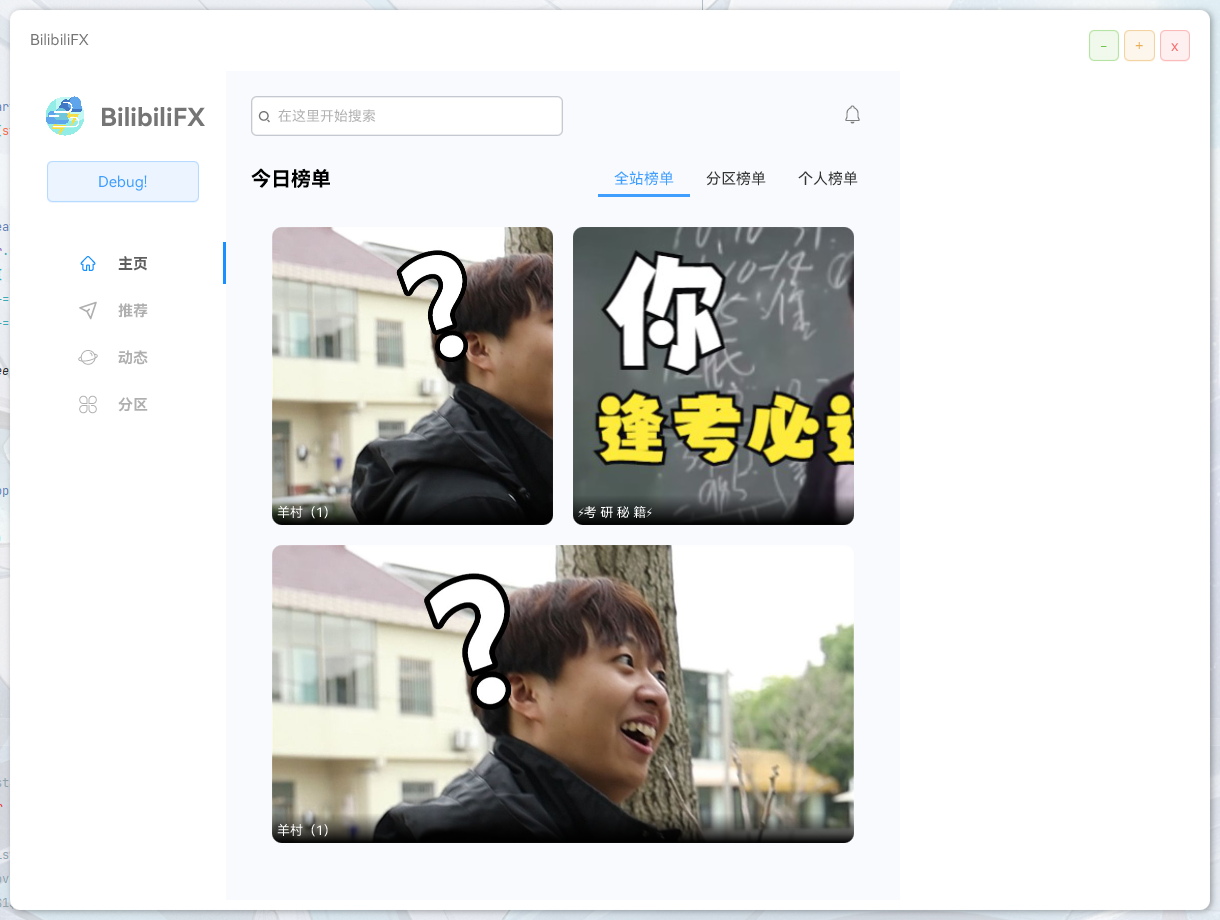
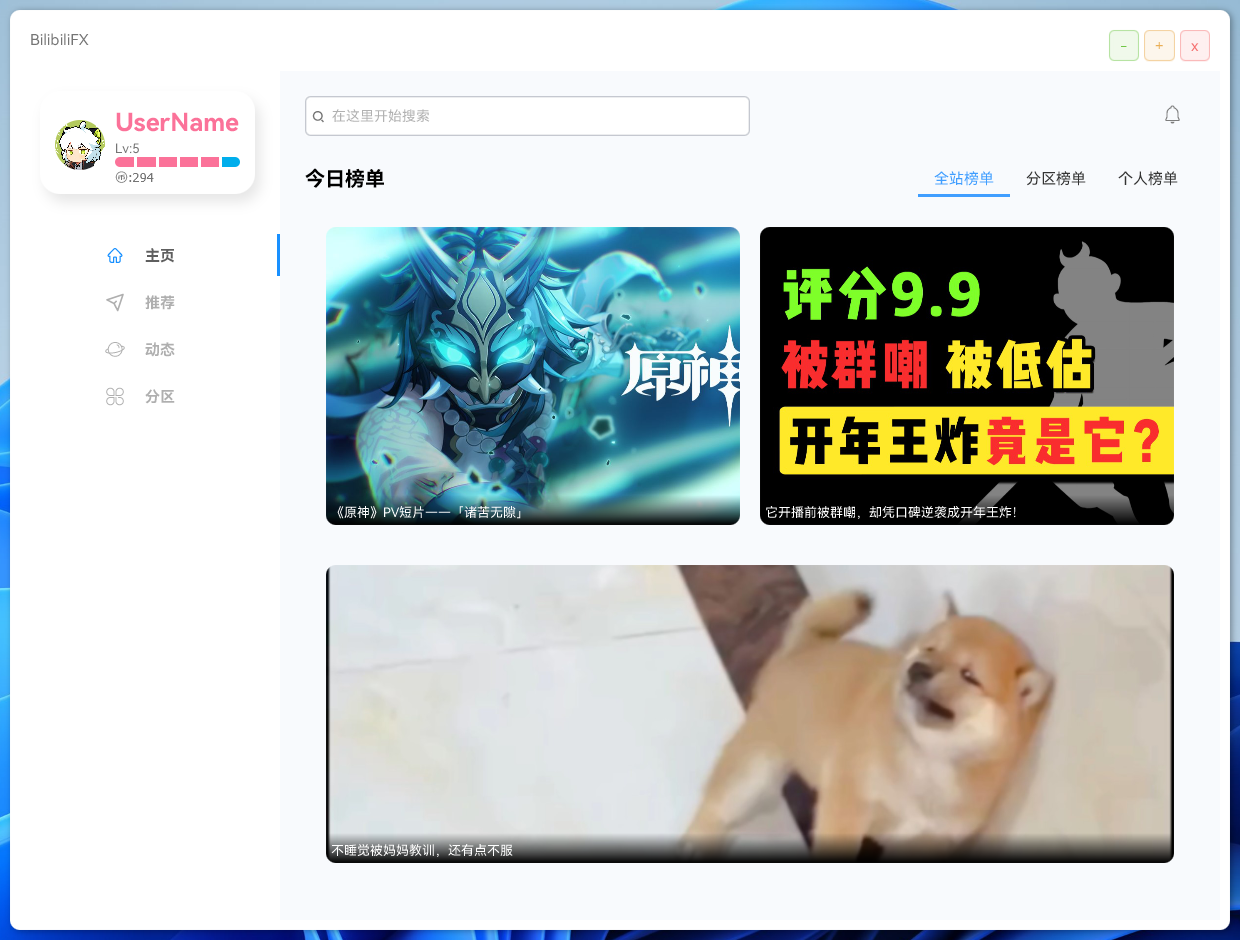
Add new Function

diff --git a/src/main/kotlin/ink/bluecloud/ui/mainview/node/SuspensionProFileCard.kt b/src/main/kotlin/ink/bluecloud/ui/mainview/node/SuspensionProFileCard.kt
@@ -1,15 +1,18 @@
 package ink.bluecloud.ui.mainview.node
 
 import ink.bluecloud.cloudtools.CLOUD_INTERPOLATOR
+import ink.bluecloud.model.data.account.AccountCard
 import ink.bluecloud.utils.newUI
 import ink.bluecloud.utils.uiutil.cloudTimeline
 import ink.bluecloud.utils.uiutil.nodeToScene
 import javafx.beans.property.SimpleBooleanProperty
+import javafx.beans.property.SimpleObjectProperty
 import javafx.geometry.Pos
 import javafx.scene.effect.BlurType
 import javafx.scene.effect.DropShadow
 import javafx.scene.layout.Pane
 import javafx.scene.layout.StackPane
+import javafx.scene.layout.VBox
 import javafx.scene.paint.Color
 import javafx.scene.transform.Scale
 import javafx.util.Duration
@@ -22,42 +25,76 @@ import tornadofx.*
 class SuspensionProFileCard(
     open: SimpleBooleanProperty,
     box: Pane
-): StackPane(), KoinComponent {
+): VBox(), KoinComponent {
+    val accountInfo = SimpleObjectProperty<AccountCard>()
+
     init {
-        val rootChildren = (box.scene.root as Pane).children
+        val uidLabel = label()
+
+        accountInfo.addListener { _, _, newValue ->
+            uidLabel.run {
+                style {
+                    textFill = c("gray")
+                    fontSize = 10.px
+                }
+                text = ">=====${newValue.mid}=====<"
+            }
+
+        }
 
         setOnMouseExited {
             open.value = false
         }
 
-        val scale = Scale(1.0,0.5)
+        style {
+            backgroundColor += Color.WHITE
+            backgroundRadius += box(20.px)
+        }
+
+        initPosition(box)
+
+        alignment = Pos.TOP_CENTER
+
+        maxWidth = 200.0
+        maxHeight = 300.0
+        opacity = 0.0
+        transforms += playAnimation(box, open)
+        effect = DropShadow(BlurType.GAUSSIAN, c(0,0,0,0.2), 20.0,0.0,7.0,10.0)
+    }
+
+    private fun playAnimation(
+        box: Pane,
+        open: SimpleBooleanProperty,
+    ): Scale {
+        val scale = Scale(1.0, 0.5)
+        val rootChildren = (box.scene.root as Pane).children
 
         val inAnimation = cloudTimeline {
             keyframe(Duration.millis(150.0)) {
-                keyvalue((box.effect as DropShadow).colorProperty(),c(0,0,0,0.25), CLOUD_INTERPOLATOR)
-                keyvalue(box.translateXProperty(),-5, CLOUD_INTERPOLATOR)
-                keyvalue(box.translateYProperty(),-2, CLOUD_INTERPOLATOR)
+                keyvalue((box.effect as DropShadow).colorProperty(), c(0, 0, 0, 0.25), CLOUD_INTERPOLATOR)
+                keyvalue(box.translateXProperty(), -5, CLOUD_INTERPOLATOR)
+                keyvalue(box.translateYProperty(), -2, CLOUD_INTERPOLATOR)
 
-                keyvalue(opacityProperty(),1.0, CLOUD_INTERPOLATOR)
-                keyvalue(scale.yProperty(),1.0, CLOUD_INTERPOLATOR)
+                keyvalue(opacityProperty(), 1.0, CLOUD_INTERPOLATOR)
+                keyvalue(scale.yProperty(), 1.0, CLOUD_INTERPOLATOR)
             }
         }
 
         val outAnimation = cloudTimeline {
             keyframe(Duration.millis(150.0)) {
-                keyvalue((box.effect as DropShadow).colorProperty(),c(0,0,0,0.1), CLOUD_INTERPOLATOR)
-                keyvalue(box.translateXProperty(),0, CLOUD_INTERPOLATOR)
-                keyvalue(box.translateYProperty(),0, CLOUD_INTERPOLATOR)
+                keyvalue((box.effect as DropShadow).colorProperty(), c(0, 0, 0, 0.1), CLOUD_INTERPOLATOR)
+                keyvalue(box.translateXProperty(), 0, CLOUD_INTERPOLATOR)
+                keyvalue(box.translateYProperty(), 0, CLOUD_INTERPOLATOR)
 
-                keyvalue(opacityProperty(),0.0, CLOUD_INTERPOLATOR)
-                keyvalue(scale.yProperty(),0.5, CLOUD_INTERPOLATOR)
+                keyvalue(opacityProperty(), 0.0, CLOUD_INTERPOLATOR)
+                keyvalue(scale.yProperty(), 0.5, CLOUD_INTERPOLATOR)
             }
         }
 
         open.addListener { _, _, newValue ->
             if (newValue) {
                 inAnimation.play()
-            }else {
+            } else {
                 if (rootChildren.contains(this)) {
                     newUI {
                         outAnimation.play()
@@ -67,22 +104,12 @@ class SuspensionProFileCard(
                 }
             }
         }
+        return scale
+    }
 
+    private fun initPosition(box: Pane) {
         val distance = box.nodeToScene()
-        setAlignment(this, Pos.TOP_LEFT)
-        setMargin(this, insets(distance.y + box.height, 0, 0, distance.x - 25))
-
-        style {
-            backgroundColor += Color.WHITE
-            backgroundRadius += box(20.px)
-        }
-
-        maxWidth = 200.0
-        maxHeight = 300.0
-
-        opacity = 0.0
-        transforms += scale
-
-        effect = DropShadow(BlurType.GAUSSIAN, c(0,0,0,0.2), 20.0,0.0,7.0,10.0)
+        StackPane.setAlignment(this, Pos.TOP_LEFT)
+        StackPane.setMargin(this, insets(distance.y + box.height, 0, 0, distance.x - 25))
     }
 }

diff --git a/src/main/kotlin/ink/bluecloud/ui/mainview/MainView.kt b/src/main/kotlin/ink/bluecloud/ui/mainview/MainView.kt
@@ -3,7 +3,6 @@ package ink.bluecloud.ui.mainview
 import ink.bluecloud.cloudtools.stageinitializer.TitleBar
 import ink.bluecloud.ui.mainview.homeview.HomeView
 import ink.bluecloud.ui.mainview.node.ExperienceBar
-import ink.bluecloud.ui.mainview.node.SuspensionProFileCard
 import ink.bluecloud.ui.mainview.node.sliderbar.CloudSlideBar
 import ink.bluecloud.utils.HarmonySans
 import ink.bluecloud.utils.koin
@@ -86,7 +85,6 @@ class MainView : KoinComponent,MainViewNodes() {
                         open.value = ((it.x in 0.0.. 190.0) && (it.y in 0.0..100.0)) || ((it.x in 0.0..190.0) && (it.y >= 0))
                     }
 
-                    var suspensionProFileCard: SuspensionProFileCard? = null
                     primaryStage.addEventHandler(WindowEvent.WINDOW_SHOWN) {
                         suspensionProFileCard = get {
                             parametersOf(this@profileCard, open)

diff --git a/src/main/kotlin/ink/bluecloud/ui/mainview/MainViewController.kt b/src/main/kotlin/ink/bluecloud/ui/mainview/MainViewController.kt
@@ -20,7 +20,6 @@ import tornadofx.*
 class MainViewController : CloudController<MainView>() {
     private lateinit var accountCard: AccountCard
 
-//    @Suppress("BlockingMethodInNonBlockingContext")
     @Suppress("BlockingMethodInNonBlockingContext")
     override fun initUi(view: MainView): Unit = view.run {
         if (get<SettingCenter>().checkSettingIsNull<CookieJson>()) openInternalWindow<LoginView>(closeButton = false)
@@ -49,6 +48,8 @@ class MainViewController : CloudController<MainView>() {
                 levelBar.level.value = accountCard.level
                 levelLabel.text = "Lv:${accountCard.level}"
                 coinLabel.text = "\uE7AC:${accountCard.coin}"
+
+                suspensionProFileCard.accountInfo.value = accountCard
             }
 
             println(accountCard)

diff --git a/src/main/kotlin/ink/bluecloud/ui/mainview/MainViewNodes.kt b/src/main/kotlin/ink/bluecloud/ui/mainview/MainViewNodes.kt
@@ -1,6 +1,7 @@
 package ink.bluecloud.ui.mainview
 
 import ink.bluecloud.ui.mainview.node.ExperienceBar
+import ink.bluecloud.ui.mainview.node.SuspensionProFileCard
 import javafx.scene.control.Label
 import javafx.scene.image.ImageView
 import tornadofx.*
@@ -9,6 +10,7 @@ abstract class MainViewNodes: View("Bilibili，干杯~") {
     var headView by singleAssign<ImageView>()
     var userName by singleAssign<Label>()
     var levelLabel by singleAssign<Label>()
+    var suspensionProFileCard by singleAssign<SuspensionProFileCard>()
     var levelBar by singleAssign<ExperienceBar>()
     var coinLabel by singleAssign<Label>()
 }
